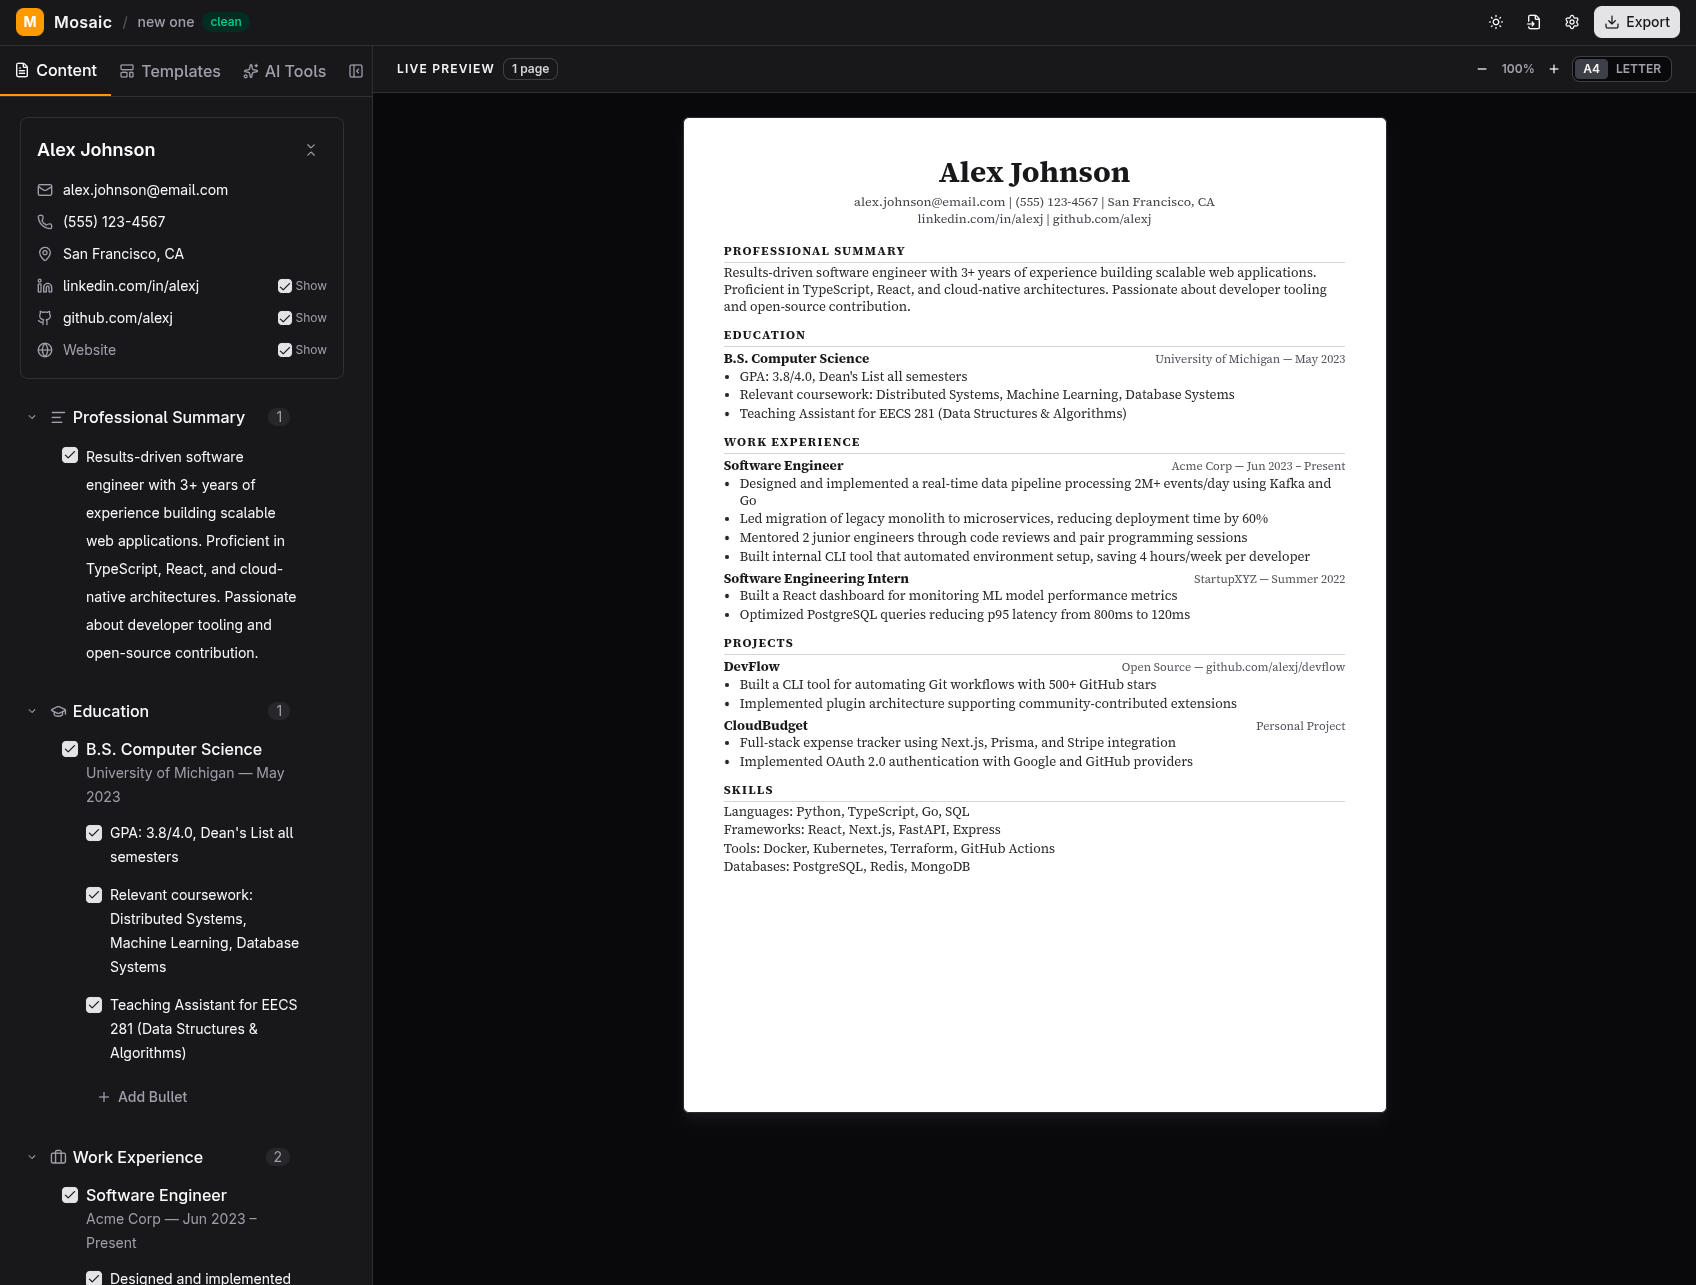
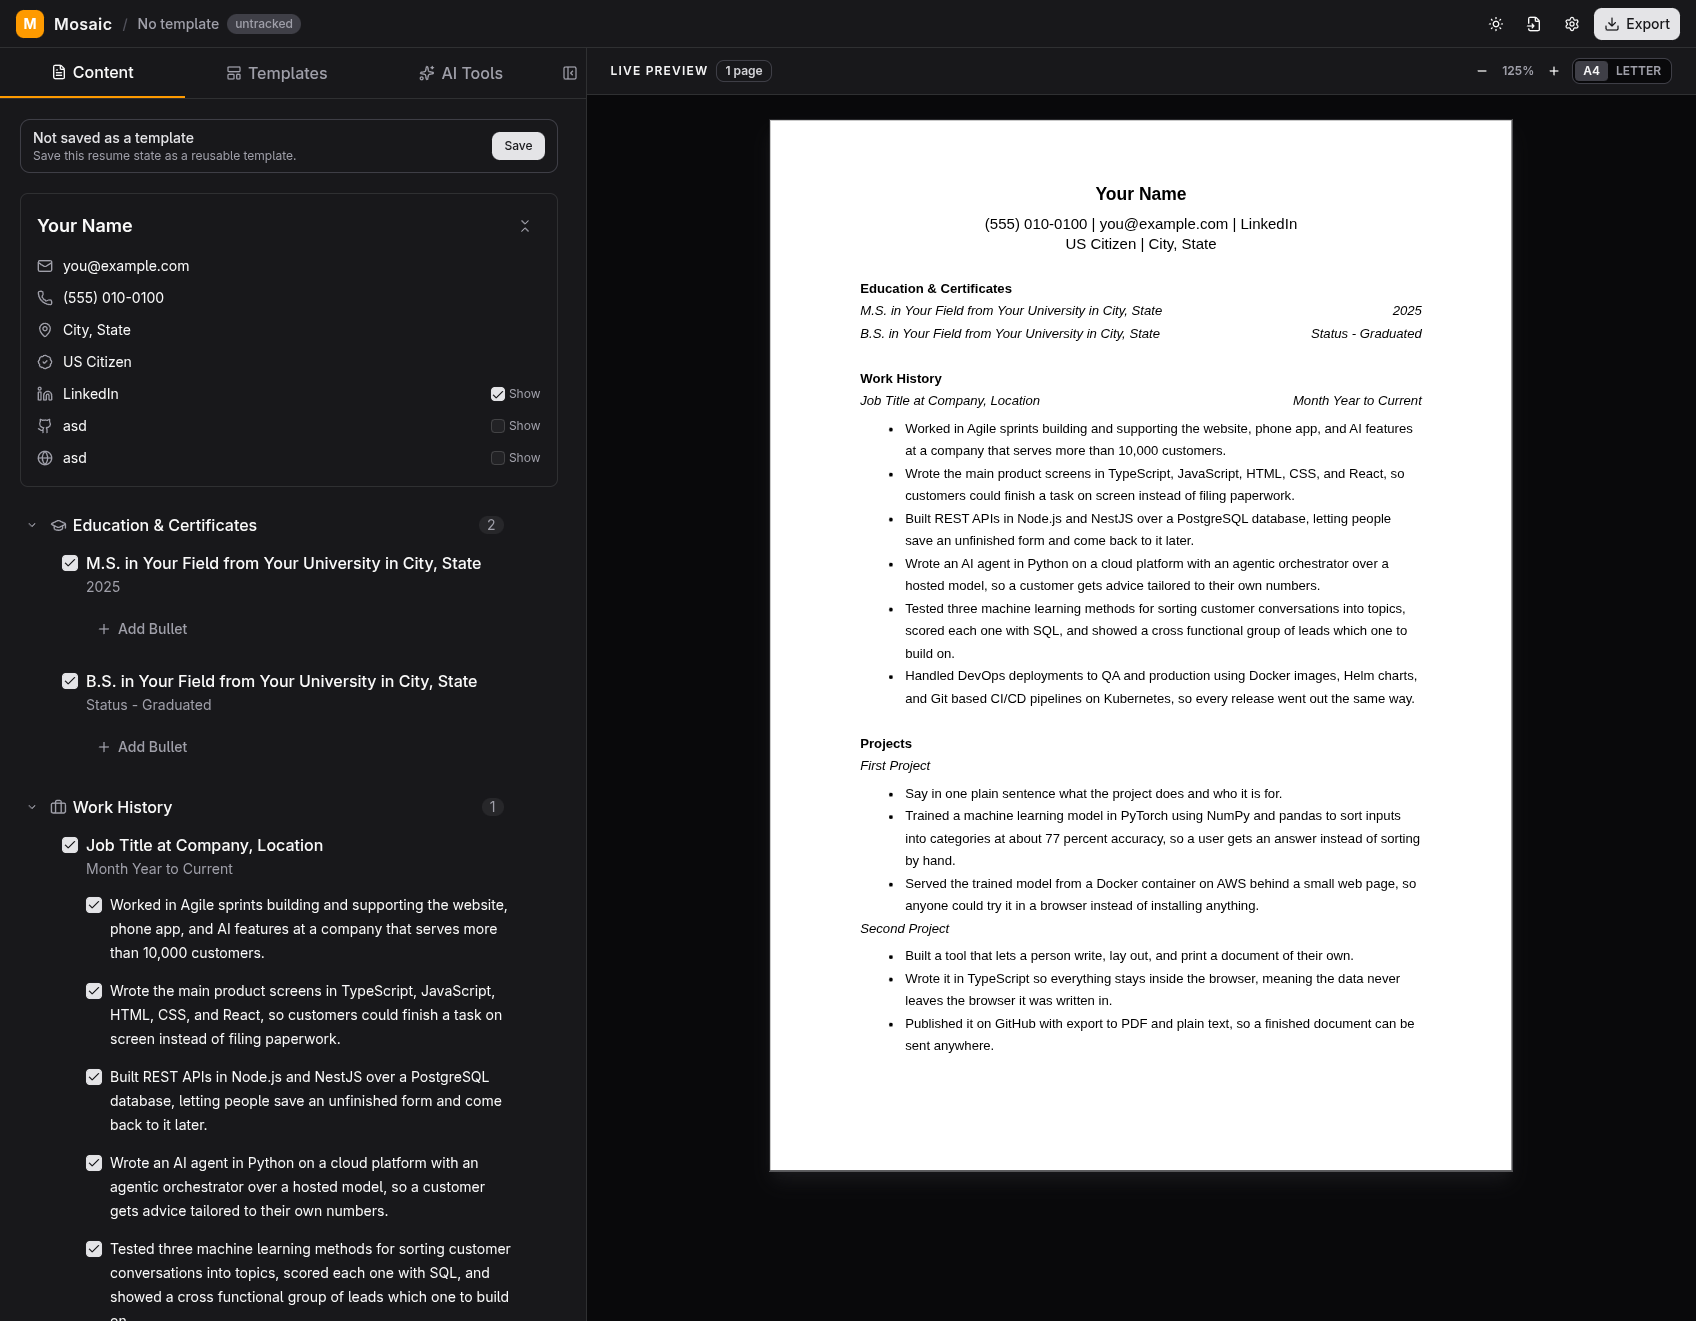
assets: update mosaic project preview

diff --git a/lib/work-data.ts b/lib/work-data.ts
@@ -199,7 +199,7 @@ export const PROJECTS: Project[] = [
     k: "electric",
     img: "/projects/mosaic.png",
     imgW: 1696,
-    imgH: 1285,
+    imgH: 1321,
     imgAlt: "Mosaic's editor beside its live print preview, mid-edit on a resume.",
     imgFit: "contain",
     d: "A modular resume editor with a live print-style preview, built local-first: resume data and preferences never leave the machine. Include/exclude toggles per entry and bullet, so one dataset can produce a targeted resume per application.",
